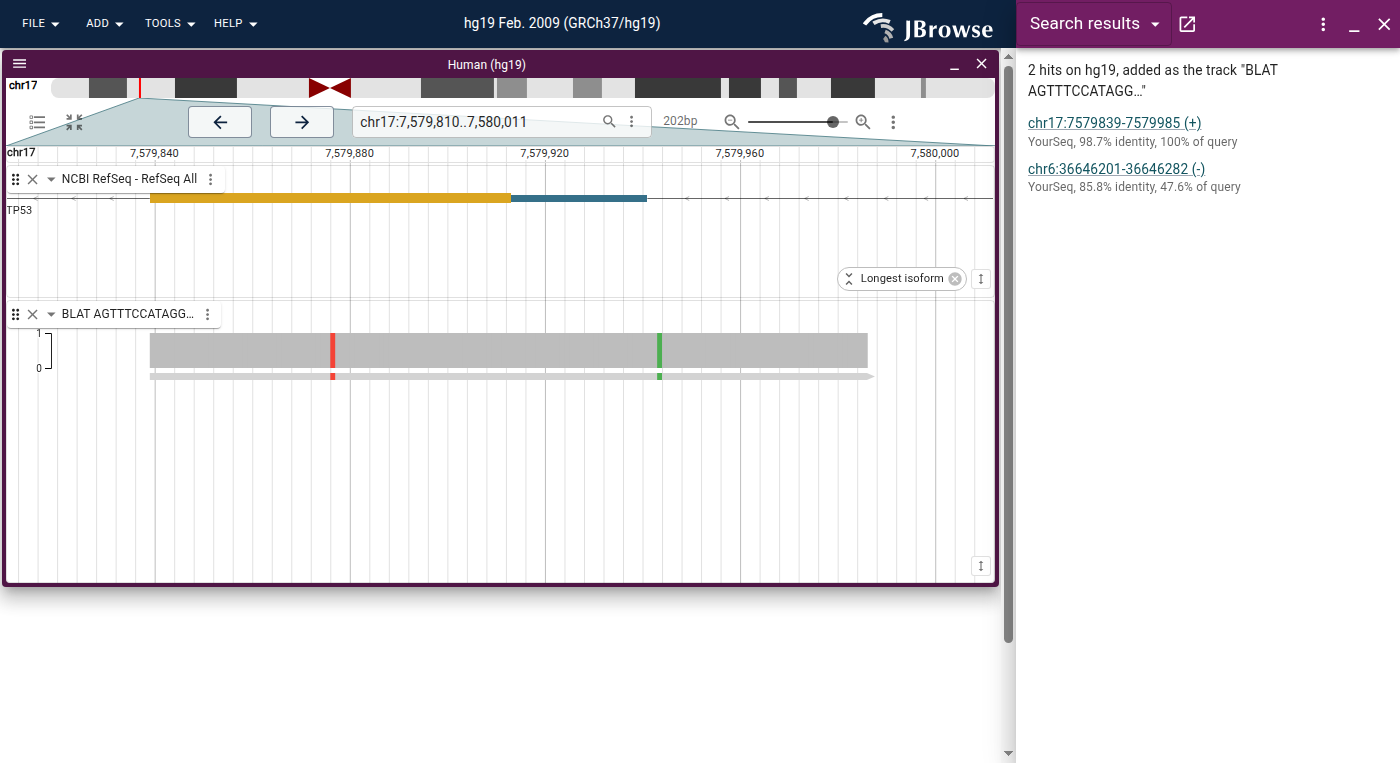
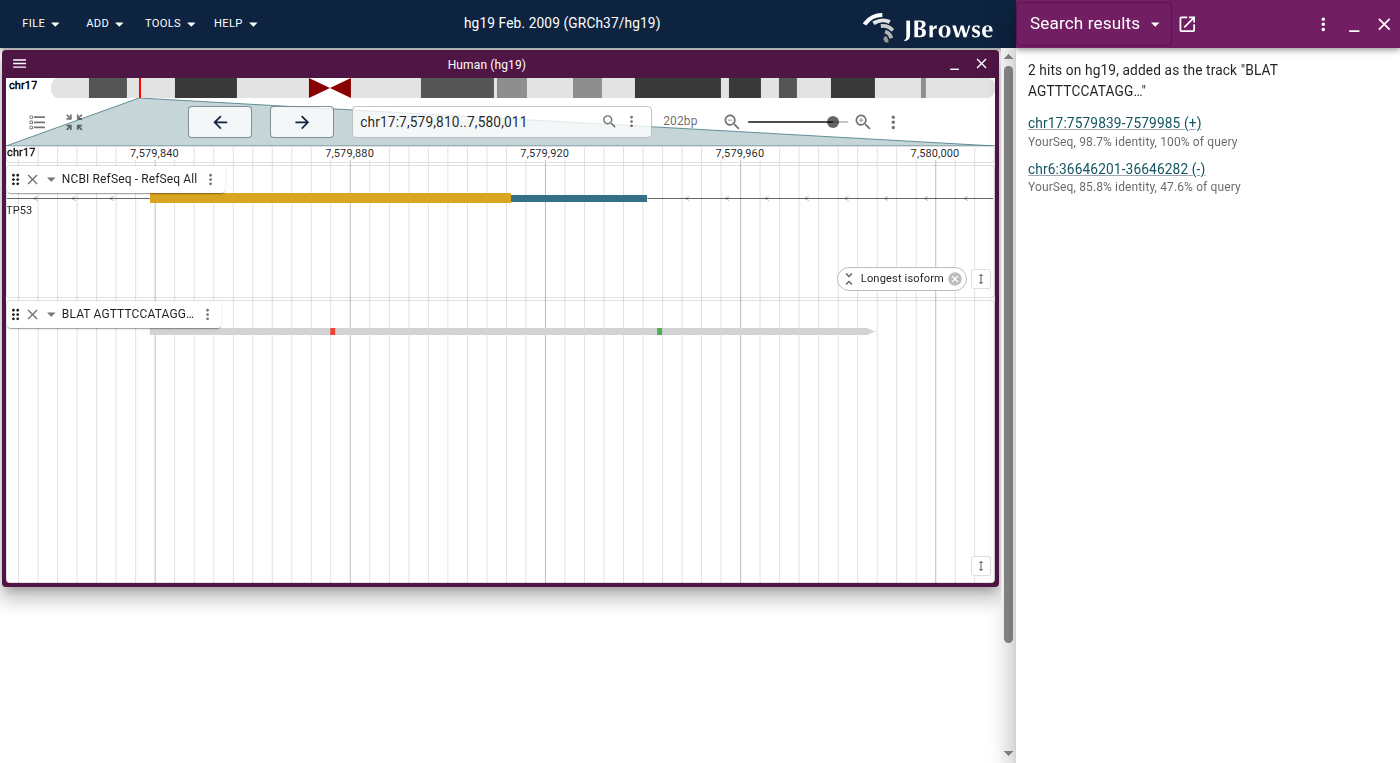
fix(blat): drop the coverage band from a result track, and don't emit a SEQ that disagrees with qSize
A BLAT result set is a handful of hits, not a sequencing pileup: there is no
depth to read, so the coverage band was 45 pixels saying "1" over the one place
the query landed. The trackConf now carries a displayDefaults shorthand, and the
BLAT one turns showCoverage off. addResultTrack spreads the conf so hgPcr, which
passes none, is unaffected.

pslToSam only carries SEQ when its length matches the row's qSize. The CIGAR
spans qSize query bases by construction, so a query of any other length puts
every base out of register and the pileup draws mismatches the whole way along a
hit the widget labels as near-perfect identity. That is a real possibility
whenever the text and the rows come from different queries (a renamed or
truncated FASTA record, a stand-in server), and falling back to the documented
"no query text" record draws the blocks with no per-base mismatches instead. One
existing test had asserted SEQ from a 4-base fixture against a 147-base row,
which is the same incoherence.

heightMode 'grow' is the other natural fit for a result track and is deliberately
not set: a single-hit track grown to its content renders the read clipped by the
bottom edge of the view. Noted at the call site.

Changed region(s): [[0.0921, 0.422, 0.645, 0.5125]]

diff --git a/plugins/blat/src/pslToSam.test.ts b/plugins/blat/src/pslToSam.test.ts
@@ -1,3 +1,5 @@
+import { revcom } from '@jbrowse/core/util'
+
 import { parsePslRows } from './blatQuery.ts'
 import {
   parseQuerySequences,
@@ -169,8 +171,12 @@ test('emits an @SQ line per target with the size PSL states', () => {
   expect(lines).toContain('@SQ\tSN:chr17\tLN:83257441')
 })
 
+// the query has to be qSize long to be carried at all, so it can't be a token
+// string here — see the length test below
+const query147 = 'ACGTAC'.repeat(25).slice(0, 147)
+
 test('a record carries POS as 1-based, the strand flag, and the query bases', () => {
-  const [record] = samRecords([forward], new Map([['YourSeq', 'ACGT']]))
+  const [record] = samRecords([forward], new Map([['YourSeq', query147]]))
   const [name, flag, refName, pos, mapq, cigar, , , , seq] = record!.split('\t')
   expect(name).toBe('YourSeq')
   expect(flag).toBe('0')
@@ -179,7 +185,7 @@ test('a record carries POS as 1-based, the strand flag, and the query bases', ()
   // BLAT reports identity, not a mapping probability: 255 is "unavailable"
   expect(mapq).toBe('255')
   expect(cigar).toBe('1S146M')
-  expect(seq).toBe('ACGT')
+  expect(seq).toBe(query147)
 })
 
 test('a minus-strand record sets the reverse flag', () => {
@@ -213,6 +219,26 @@ test('states the edit distance and the kent score as tags', () => {
 test('a hit with no query text states SEQ as unavailable', () => {
   const [record] = samRecords([forward], new Map())
   expect(record!.split('\t')[9]).toBe('*')
+})
+
+// a query of the wrong length can't be the one the rows describe, and carrying
+// it anyway puts every base out of register: the pileup then draws a wall of
+// mismatches under a hit the widget labels as near-perfect identity
+test('a query whose length disagrees with qSize is not carried', () => {
+  const [record] = samRecords([forward], new Map([['YourSeq', 'ACGT']]))
+  expect(record!.split('\t')[9]).toBe('*')
+})
+
+test('a query matching qSize is carried in full, and reverse-complemented on the minus strand', () => {
+  const query = query147
+  const [fwd] = samRecords([forward], new Map([['YourSeq', query]]))
+  const [rev] = samRecords([reverse], new Map([['YourSeq', query]]))
+  const seqOf = (record: string) => record.split('\t')[9]!
+  expect(seqOf(fwd!)).toBe(query)
+  expect(seqOf(rev!)).toHaveLength(query.length)
+  expect(seqOf(rev!)).toBe(revcom(query))
+  // the invariant that makes the mismatches land in register
+  expect(cigarSpan(rev!.split('\t')[5]!, 'MIS')).toBe(seqOf(rev!).length)
 })
 
 test('parses submitted FASTA into name-keyed sequences', () => {

diff --git a/plugins/blat/src/ucscShared.ts b/plugins/blat/src/ucscShared.ts
@@ -88,9 +88,11 @@ export async function navToFeature(
 // How a result set is displayed. Defaults to an on-the-fly FromConfigAdapter
 // FeatureTrack, which is all an hgPcr product needs; a BLAT hit overrides it
 // with a SAM alignment so its blocks, indels and per-base mismatches are drawn.
+// `displayDefaults` is the shorthand for slots on that track's default display.
 export interface ResultTrackConf {
   type: string
   adapter: Record<string, unknown>
+  displayDefaults?: Record<string, unknown>
 }
 
 // Turns a UCSC query result into an on-the-fly track, shows it, navigates to the
@@ -119,16 +121,15 @@ export async function addResultTrack({
     throw new Error("Can't add tracks to this session")
   }
   const trackId = `${trackIdPrefix}-${Date.now()}`
-  const { type, adapter } = trackConf ?? {
+  const resultTrack = trackConf ?? {
     type: 'FeatureTrack',
     adapter: { type: 'FromConfigAdapter', features },
   }
   session.addTrackConf({
-    type,
+    ...resultTrack,
     trackId,
     name: trackName,
     assemblyNames: [assembly],
-    adapter,
   })
   const view = findNavigableView(session, assembly)
   if (view) {

diff --git a/plugins/blat/src/BlatDialog.tsx b/plugins/blat/src/BlatDialog.tsx
@@ -75,6 +75,16 @@ const BlatDialog = observer(function BlatDialog({
               type: 'SamAdapter',
               samText: pslToSam(rows, parseQuerySequences(seq)),
             },
+            // A handful of hits has no depth to read, so the coverage band is 45
+            // pixels saying "1" over the one place the query landed. The hits
+            // themselves are the answer here, unlike a sequencing pileup.
+            //
+            // heightMode 'grow' would also be the natural fit (the content is a
+            // few hits of known size, so the fixed lane is mostly empty), but a
+            // single-hit track grown to its content comes out with the read
+            // clipped by the bottom edge of the view. Left off until that is
+            // understood.
+            displayDefaults: { showCoverage: false },
           },
         }
       },

diff --git a/plugins/blat/src/pslToSam.ts b/plugins/blat/src/pslToSam.ts
@@ -91,7 +91,14 @@ function pslRowToSamLine(
 ) {
   const secondary = bestOf.has(row.qName)
   bestOf.add(row.qName)
-  const seq = pslQuerySeq(row, querySequences)
+  const resolved = pslQuerySeq(row, querySequences)
+  // The CIGAR spans qSize query bases by construction, so a SEQ of any other
+  // length is a malformed record: the pileup would compare the query against
+  // the reference out of register and draw mismatches everywhere. It means the
+  // text and the rows came from different queries (a renamed or truncated FASTA
+  // record, a stand-in server), so fall back to the documented "no query text"
+  // record, which draws the blocks and no per-base mismatches.
+  const seq = resolved?.length === row.qSize ? resolved : undefined
   return [
     row.qName,
     (row.strand < 0 ? 16 : 0) | (secondary ? 256 : 0),
